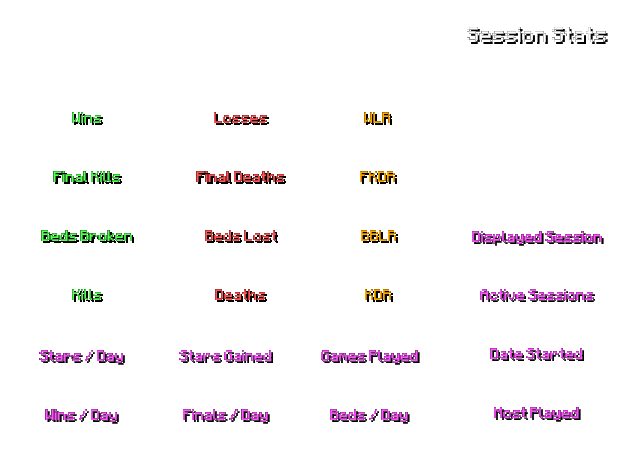
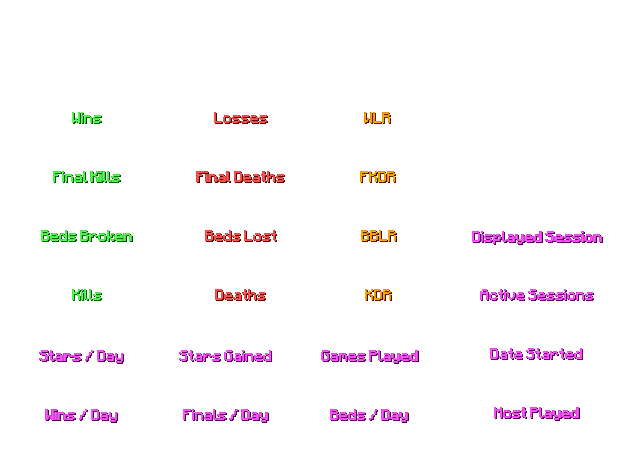
Made CumulativeStats ratios account for unstrict modes, allowed render_mc_text to take fontsize, and fixed up session stat titles

diff --git a/bot/statalib/render/text.py b/bot/statalib/render/text.py
@@ -2,6 +2,7 @@ from typing import Literal
 
 from PIL import Image, ImageFont, ImageDraw
 
+from ..functions import REL_PATH
 from .splitting import split_string, split_at_symbols
 from .colors import Colors
 from .tools import mc_text_shadow
@@ -84,8 +85,9 @@ def get_start_point(
 def render_mc_text(
     text: str,
     position: tuple[int, int],
-    font: ImageFont.ImageFont,
     image: Image.Image,
+    font: ImageFont.ImageFont=None,
+    font_size: int=None,
     shadow_offset: tuple[int, int]=None,
     align: Literal['left', 'center', 'right']='left',
     return_x: bool=False
@@ -93,12 +95,19 @@ def render_mc_text(
     """
     :param text: Text to render on the image
     :param position: X & Y positions to render the text at
-    :param font: Font used to render text
     :param image: PIL image object to render text on
+    :param font: Font used to render text
+    :param font_size: The fontsize to use if no font object is passed
     :param shadow_offset: X & Y positions to offset the drop shadow
     :param align: the alignment of the text relative to the x position
     :param return_x: whether or not to return the new x position
     """
+    assert (font, font_size).count(None) > 0
+
+    if font is None:
+        font = ImageFont.truetype(
+            f'{REL_PATH}/assets/fonts/minecraft.ttf', size=font_size)
+
     split_chars = tuple(Colors.color_codes)
     bits = tuple(split_string(text, split_chars))
 

diff --git a/bot/statalib/calctools.py b/bot/statalib/calctools.py
@@ -320,19 +320,19 @@ class CumulativeStats(BedwarsStats):
 
         self.wins_cum: int = self._calc_cum('wins_bedwars')
         self.losses_cum: int = self._calc_cum('losses_bedwars')
-        self.wlr_cum = rround(self.wins_cum / (self.losses_cum or 1), 2)
+        self.wlr_cum = self._get_ratio(self.wins_cum, self.losses_cum)
     
         self.final_kills_cum: int = self._calc_cum('final_kills_bedwars')
         self.final_deaths_cum: int = self._calc_cum('final_deaths_bedwars')
-        self.fkdr_cum = rround(self.final_kills_cum / (self.final_deaths_cum or 1), 2)
+        self.fkdr_cum = self._get_ratio(self.final_kills_cum, self.final_deaths_cum)
 
         self.beds_broken_cum: int = self._calc_cum('beds_broken_bedwars')
         self.beds_lost_cum: int = self._calc_cum('beds_lost_bedwars')
-        self.bblr_cum = rround(self.beds_broken_cum / (self.beds_lost_cum or 1), 2)
+        self.bblr_cum = self._get_ratio(self.beds_broken_cum, self.beds_lost_cum)
 
         self.kills_cum: int = self._calc_cum('kills_bedwars')
         self.deaths_cum: int = self._calc_cum('deaths_bedwars')
-        self.kdr_cum = rround(self.kills_cum / (self.deaths_cum or 1), 2)
+        self.kdr_cum = self._get_ratio(self.kills_cum, self.deaths_cum)
 
         self.most_played_cum = self._get_most_played()
         self.games_played_cum: int = self._calc_cum('games_played_bedwars')

diff --git a/bot/render/session.py b/bot/render/session.py
@@ -84,6 +84,16 @@ def render_session(
         align='center'
     )
 
+    render_mc_text(
+        text=f"Session Stats",
+        position=(537, 27),
+        font_size=17,
+        image=image,
+        shadow_offset=(2, 2),
+        align='center'
+    )
+
+
     paste_skin(skin_res, image, positions=(466, 69))
 
     # Paste overlay image
